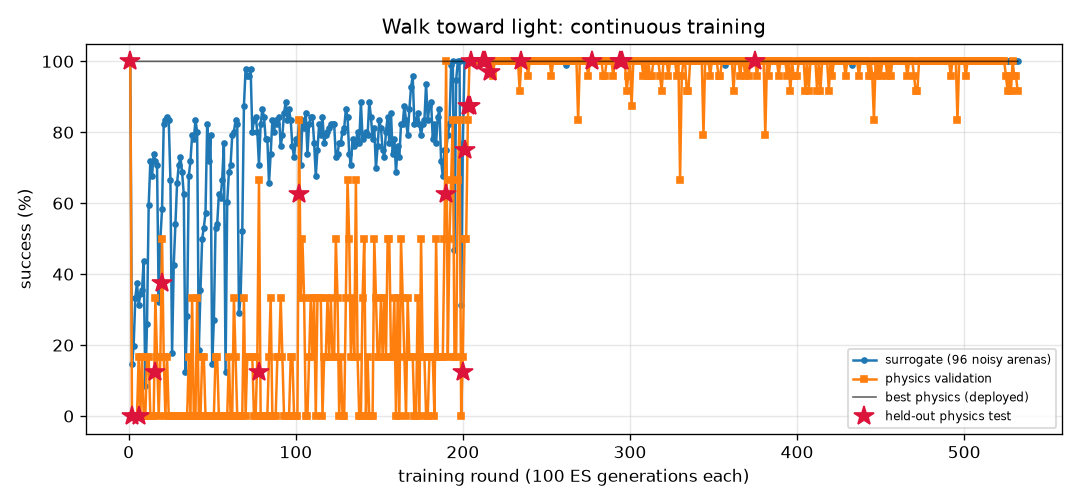
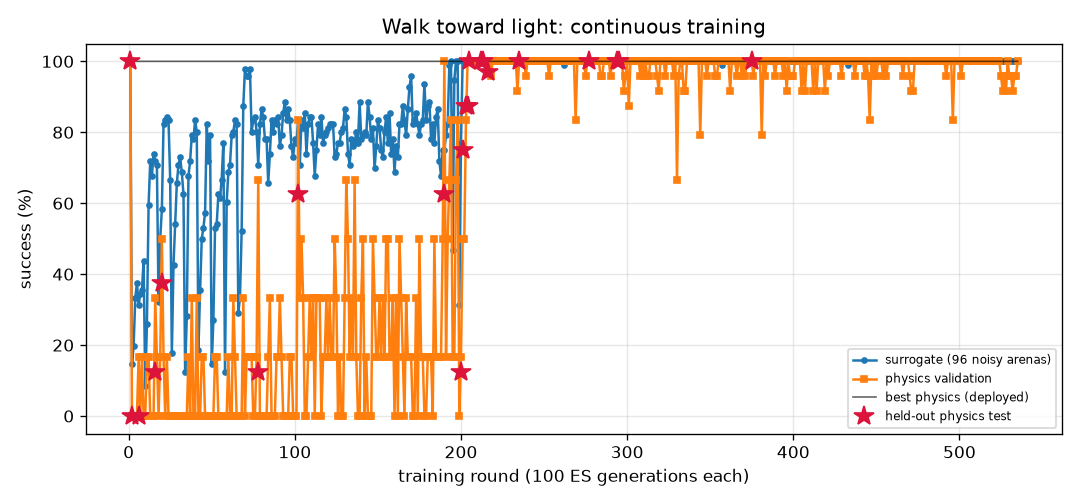
FlyLab: continuous training progress
- walk_forward: optimal, physics val 100% of 24, round 434
- turn: optimal, physics val 100% of 24, round 1151
- goto: optimal, physics val 100% of 24, round 331
- odor_seek: optimal, physics val 100% of 24, round 269
- odor_avoid: optimal, physics val 100% of 24, round 994
- light_seek: optimal, physics val 100% of 24, round 535
- light_avoid: optimal, physics val 100% of 24, round 711

diff --git a/projects/09_flylab/training/walk_forward/REPORT.md b/projects/09_flylab/training/walk_forward/REPORT.md
@@ -1,14 +1,14 @@
 # Walk forward (`walk_forward`) — training report
 
-*Auto-generated by `train_brains.py`, last updated 2026-11-18T23:40:29.*
+*Auto-generated by `train_brains.py`, last updated 2026-11-19T00:41:45.*
 
 ![curve](curve.png)
 
 | | |
 |---|---|
-| rounds | 430 |
-| ES generations | 43000 |
-| physics runs | 10334 |
+| rounds | 434 |
+| ES generations | 43400 |
+| physics runs | 10430 |
 | status | **optimal** |
 | best brain | round 116: physics validation **100%** on 24 arenas, surrogate 100% |
 | held-out physics test | **100%** on 32 unseen arenas (95% CI 89%-100%) (errors: [0.13, 0.16, 0.19, 0.16, 0.15, 0.2, 0.17, 0.18, 0.17, 0.19, 0.2, 0.14, 0.17, 0.19, 0.2, 0.2, 0.13, 0.19, 0.16, 0.2, 0.2, 0.16, 0.17, 0.2, 0.13, 0.15, 0.18, 0.14, 0.16, 0.15, 0.19, 0.12]) |
@@ -17,10 +17,6 @@ Physics error per arena: mm from target at the end (< 1.5 and standing still = s
 
 | round | level | gens | sigma | surrogate | physics val | val errors | test | note |
 |---:|---:|---:|---:|---:|---:|---|---:|---|
-| 391 | 3 | 39100 | 0.025 | 100% | 100% | [0.36, 0.34, 0.33, 0.36, 0.34, 0.34, 0.34, 0.35, 0.34, 0.29, 0.33, 0.18, 0.35, 0.34, 0.35, 0.12, 0.35, 0.34, 0.36, 0.35, 0.36, 0.28, 0.07, 0.35] |  |  |
-| 392 | 3 | 39200 | 0.024 | 100% | 100% | [0.24, 0.17, 0.22, 0.24, 0.16, 0.1, 0.15, 0.17, 0.15, 0.17, 0.11, 0.32, 0.21, 0.15, 0.22, 0.29, 0.22, 0.16, 0.18, 0.2, 0.15, 0.17, 0.31, 0.2] |  | restart from best |
-| 393 | 3 | 39300 | 0.024 | 100% | 92% | [0.26, 0.06, 0.29, 0.26, 0.05, 0.35, 0.05, 0.09, 0.06, 0.08, 0.21, 0.18, 0.23, 0.3, 0.05, 0.18, 0.25, 0.04, 0.07, 0.06, 0.08, 0.09, 0.26, 0.17] |  |  |
-| 394 | 3 | 39400 | 0.024 | 100% | 100% | [0.24, 0.3, 0.2, 0.24, 0.3, 0.2, 0.3, 0.2, 0.3, 0.29, 0.21, 0.27, 0.19, 0.2, 0.27, 0.27, 0.23, 0.3, 0.2, 0.28, 0.2, 0.28, 0.26, 0.19] |  |  |
 | 395 | 3 | 39500 | 0.024 | 99% | 96% | [0.05, 0.11, 0.06, 0.17, 0.06, 0.13, 0.05, 0.13, 0.08, 0.2, 0.09, 0.13, 0.13, 0.13, 0.02, 0.13, 0.07, 0.07, 0.06, 0.08, 0.08, 0.07, 0.2, 0.13] |  |  |
 | 396 | 3 | 39600 | 0.025 | 99% | 100% | [0.09, 0.15, 0.17, 0.09, 0.15, 0.14, 0.18, 0.13, 0.16, 0.21, 0.13, 0.28, 0.16, 0.03, 0.15, 0.22, 0.11, 0.21, 0.11, 0.14, 0.13, 0.27, 0.22, 0.17] |  | restart from best |
 | 397 | 3 | 39700 | 0.024 | 100% | 71% | [0.06, 0.1, 0.46, 0.07, 0.06, 0.29, 0.1, 0.04, 0.09, 0.11, 0.62, 0.1, 0.27, 1.48, 0.07, 0.08, 0.06, 0.08, 0.44, 0.07, 0.04, 0.11, 0.12, 0.06] |  |  |
@@ -57,3 +53,7 @@ Physics error per arena: mm from target at the end (< 1.5 and standing still = s
 | 428 | 3 | 42800 | 0.024 | 100% | 83% | [0.21, 0.23, 0.89, 0.21, 0.24, 0.04, 0.23, 0.39, 0.23, 0.23, 0.39, 0.21, 0.07, 0.34, 0.22, 0.21, 0.19, 0.24, 0.07, 0.23, 0.06, 0.23, 0.18, 0.07] |  | restart from best |
 | 429 | 3 | 42900 | 0.024 | 100% | 100% | [0.22, 0.24, 0.17, 0.22, 0.24, 0.16, 0.24, 0.19, 0.24, 0.24, 0.16, 0.22, 0.18, 0.17, 0.22, 0.23, 0.21, 0.24, 0.19, 0.23, 0.2, 0.23, 0.22, 0.19] |  |  |
 | 430 | 3 | 43000 | 0.024 | 100% | 100% | [0.32, 0.35, 0.03, 0.31, 0.35, 0.07, 0.35, 0.27, 0.35, 0.34, 0.07, 0.33, 0.28, 0.05, 0.33, 0.33, 0.31, 0.35, 0.22, 0.34, 0.29, 0.34, 0.32, 0.28] |  |  |
+| 431 | 3 | 43100 | 0.024 | 100% | 100% | [0.39, 0.43, 0.33, 0.38, 0.43, 0.34, 0.43, 0.33, 0.43, 0.41, 0.34, 0.39, 0.34, 0.34, 0.4, 0.4, 0.37, 0.43, 0.34, 0.42, 0.35, 0.41, 0.38, 0.34] |  |  |
+| 432 | 3 | 43200 | 0.024 | 100% | 79% | [0.04, 0.23, 0.11, 0.23, 0.23, 0.04, 0.23, 0.04, 0.23, 0.25, 0.22, 0.24, 0.04, 0.44, 0.06, 0.26, 0.07, 0.21, 0.16, 0.17, 0.11, 0.25, 0.13, 0.04] |  | restart from best |
+| 433 | 3 | 43300 | 0.024 | 100% | 100% | [0.22, 0.2, 0.19, 0.22, 0.2, 0.19, 0.19, 0.22, 0.19, 0.18, 0.16, 0.17, 0.21, 0.18, 0.22, 0.17, 0.22, 0.21, 0.22, 0.22, 0.22, 0.17, 0.16, 0.21] |  |  |
+| 434 | 3 | 43400 | 0.024 | 99% | 100% | [0.1, 0.1, 0.06, 0.09, 0.1, 0.13, 0.07, 0.06, 0.09, 0.21, 0.09, 0.2, 0.07, 0.07, 0.14, 0.18, 0.08, 0.13, 0.04, 0.12, 0.08, 0.19, 0.22, 0.07] |  |  |

diff --git a/projects/09_flylab/training/light_seek/REPORT.md b/projects/09_flylab/training/light_seek/REPORT.md
@@ -1,14 +1,14 @@
 # Walk toward light (`light_seek`) — training report
 
-*Auto-generated by `train_brains.py`, last updated 2026-11-18T23:26:03.*
+*Auto-generated by `train_brains.py`, last updated 2026-11-19T00:26:37.*
 
 ![curve](curve.png)
 
 | | |
 |---|---|
-| rounds | 532 |
-| ES generations | 53200 |
-| physics runs | 9648 |
+| rounds | 535 |
+| ES generations | 53500 |
+| physics runs | 9720 |
 | status | **optimal** |
 | best brain | round 375: physics validation **100%** on 24 arenas, surrogate 100% |
 | held-out physics test | **100%** on 32 unseen arenas (95% CI 89%-100%) (errors: [0.57, 0.54, 0.53, 0.57, 0.55, 0.56, 0.59, 0.56, 0.53, 0.56, 0.71, 0.56, 0.55, 0.54, 0.53, 0.54, 0.54, 0.55, 0.52, 0.65, 0.64, 0.7, 0.58, 0.57, 0.6, 0.62, 0.55, 0.88, 0.54, 0.52, 0.62, 0.57]) |
@@ -17,9 +17,6 @@ Physics error per arena: mm from target at the end (< 1.5 and standing still = s
 
 | round | level | gens | sigma | surrogate | physics val | val errors | test | note |
 |---:|---:|---:|---:|---:|---:|---|---:|---|
-| 493 | 3 | 49300 | 0.024 | 100% | 100% | [1.0, 0.62, 0.61, 0.64, 0.61, 0.67, 0.62, 0.66, 0.73, 0.55, 0.54, 0.61, 0.57, 0.54, 0.74, 0.65, 0.63, 0.61, 0.64, 0.61, 0.55, 0.57, 0.63, 0.64] |  |  |
-| 494 | 3 | 49400 | 0.024 | 100% | 100% | [0.65, 0.59, 0.55, 0.67, 0.57, 0.71, 0.55, 0.83, 0.64, 0.63, 0.62, 0.54, 0.59, 0.58, 0.64, 0.68, 0.69, 0.61, 0.85, 0.68, 0.57, 0.89, 0.58, 0.64] |  |  |
-| 495 | 3 | 49500 | 0.024 | 100% | 100% | [0.66, 0.65, 0.66, 0.58, 0.63, 0.63, 0.64, 0.73, 0.68, 0.62, 0.63, 0.66, 0.62, 0.62, 0.63, 0.72, 0.61, 0.59, 0.55, 0.7, 0.64, 0.69, 0.59, 0.7] |  | restart from best |
 | 496 | 3 | 49600 | 0.024 | 100% | 83% | [0.63, 0.48, 0.51, 0.56, 0.55, 0.52, 0.52, 0.57, 4.48, 0.59, 0.49, 1.15, 0.55, 2.04, 0.52, 0.47, 0.55, 0.48, 0.56, 2.46, 0.49, 1.1, 0.51, 1.86] |  |  |
 | 497 | 3 | 49700 | 0.024 | 100% | 100% | [0.59, 0.61, 0.64, 0.71, 0.57, 0.6, 0.61, 0.7, 0.84, 0.64, 0.57, 0.6, 0.68, 0.61, 0.78, 0.65, 0.59, 0.72, 0.67, 0.58, 0.64, 0.6, 0.59, 0.63] |  |  |
 | 498 | 3 | 49800 | 0.024 | 100% | 100% | [0.57, 0.55, 0.57, 1.36, 0.57, 0.57, 0.63, 0.54, 0.57, 0.67, 0.55, 0.58, 0.57, 0.57, 0.56, 0.56, 0.57, 0.58, 0.56, 0.66, 0.57, 0.56, 0.62, 0.72] |  |  |
@@ -57,3 +54,6 @@ Physics error per arena: mm from target at the end (< 1.5 and standing still = s
 | 530 | 3 | 53000 | 0.024 | 100% | 96% | [0.63, 0.55, 0.72, 1.25, 0.6, 0.57, 0.73, 0.51, 1.37, 0.59, 0.71, 0.66, 0.51, 0.7, 0.66, 0.7, 0.65, 0.54, 0.59, 0.59, 1.56, 0.57, 0.56, 0.6] |  |  |
 | 531 | 3 | 53100 | 0.024 | 100% | 96% | [0.63, 0.63, 0.77, 1.0, 0.69, 0.5, 0.67, 0.67, 0.61, 0.7, 0.97, 0.67, 0.55, 0.69, 0.61, 0.66, 1.06, 0.57, 0.63, 0.51, 0.62, 0.98, 0.63, 1.59] |  | restart from best |
 | 532 | 3 | 53200 | 0.024 | 100% | 92% | [1.72, 0.63, 0.6, 1.76, 0.56, 0.64, 0.78, 0.7, 0.59, 0.7, 0.75, 0.68, 0.71, 0.62, 0.7, 0.6, 0.58, 0.61, 0.6, 1.18, 0.64, 0.63, 0.62, 1.37] |  |  |
+| 533 | 3 | 53300 | 0.024 | 100% | 96% | [0.73, 0.71, 0.62, 1.16, 0.68, 0.81, 0.7, 0.81, 0.74, 0.86, 0.74, 0.64, 0.86, 0.68, 1.21, 0.6, 0.65, 0.95, 0.62, 0.97, 1.5, 1.38, 1.14, 0.57] |  |  |
+| 534 | 3 | 53400 | 0.024 | 100% | 96% | [0.73, 0.73, 1.69, 0.73, 0.75, 0.66, 0.7, 0.7, 0.68, 0.82, 0.55, 0.61, 0.75, 0.67, 0.75, 0.66, 0.8, 0.72, 0.72, 0.62, 0.66, 0.67, 0.7, 0.73] |  |  |
+| 535 | 3 | 53500 | 0.024 | 100% | 100% | [0.62, 0.66, 0.63, 0.68, 0.67, 0.61, 0.69, 0.63, 0.58, 0.65, 0.8, 0.64, 0.78, 0.72, 0.78, 0.74, 0.7, 0.59, 0.57, 0.63, 0.53, 0.8, 0.64, 0.63] |  | restart from best |

diff --git a/projects/09_flylab/training/TRAINING.md b/projects/09_flylab/training/TRAINING.md
@@ -1,15 +1,15 @@
 # FlyLab brains — continuous training log
 
-*Auto-generated by `train_brains.py`, last updated 2026-11-18T23:40:29.*
+*Auto-generated by `train_brains.py`, last updated 2026-11-19T00:41:45.*
 
 Every skill has its own brain and its own training process: surrogate ES rounds, physics validation in MuJoCo, keep-the-best selection, and a held-out physics test that is never used for selection. See each skill's report for its full round-by-round history. Mastery is progressive: passing a level (100% physics validation, >=95% surrogate) doubles the validation and test arena sets; a brain is **optimal** once it holds up at level 3 (>=95% of 24 validation arenas) AND scores >=90% on the 32 held-out test arenas. Test columns show 95% Wilson confidence intervals.
 
 | skill | rounds | ES generations | physics runs | surrogate | physics val | **physics test** | status |
 |---|---:|---:|---:|---:|---:|---:|---|
-| [Walk forward](walk_forward/REPORT.md) | 430 | 43000 | 10334 | 100% | 100% of 24 | 100% of 32 (CI 89-100%) | **optimal** |
+| [Walk forward](walk_forward/REPORT.md) | 434 | 43400 | 10430 | 100% | 100% of 24 | 100% of 32 (CI 89-100%) | **optimal** |
 | [Turn in place](turn/REPORT.md) | 1151 | 115100 | 27870 | 100% | 100% of 24 | 97% of 32 (CI 84-99%) | **optimal** |
 | [Go to a location](goto/REPORT.md) | 331 | 33100 | 7894 | 100% | 100% of 24 | 100% of 32 (CI 89-100%) | **optimal** |
 | [Find food by smell](odor_seek/REPORT.md) | 269 | 26900 | 5950 | 100% | 100% of 24 | 100% of 32 (CI 89-100%) | **optimal** |
 | [Escape a bad smell](odor_avoid/REPORT.md) | 994 | 99400 | 21162 | 97% | 100% of 24 | 97% of 32 (CI 84-99%) | **optimal** |
-| [Walk toward light](light_seek/REPORT.md) | 532 | 53200 | 9648 | 100% | 100% of 24 | 100% of 32 (CI 89-100%) | **optimal** |
+| [Walk toward light](light_seek/REPORT.md) | 535 | 53500 | 9720 | 100% | 100% of 24 | 100% of 32 (CI 89-100%) | **optimal** |
 | [Hide from light](light_avoid/REPORT.md) | 711 | 71100 | 17336 | 100% | 100% of 24 | 100% of 32 (CI 89-100%) | **optimal** |
